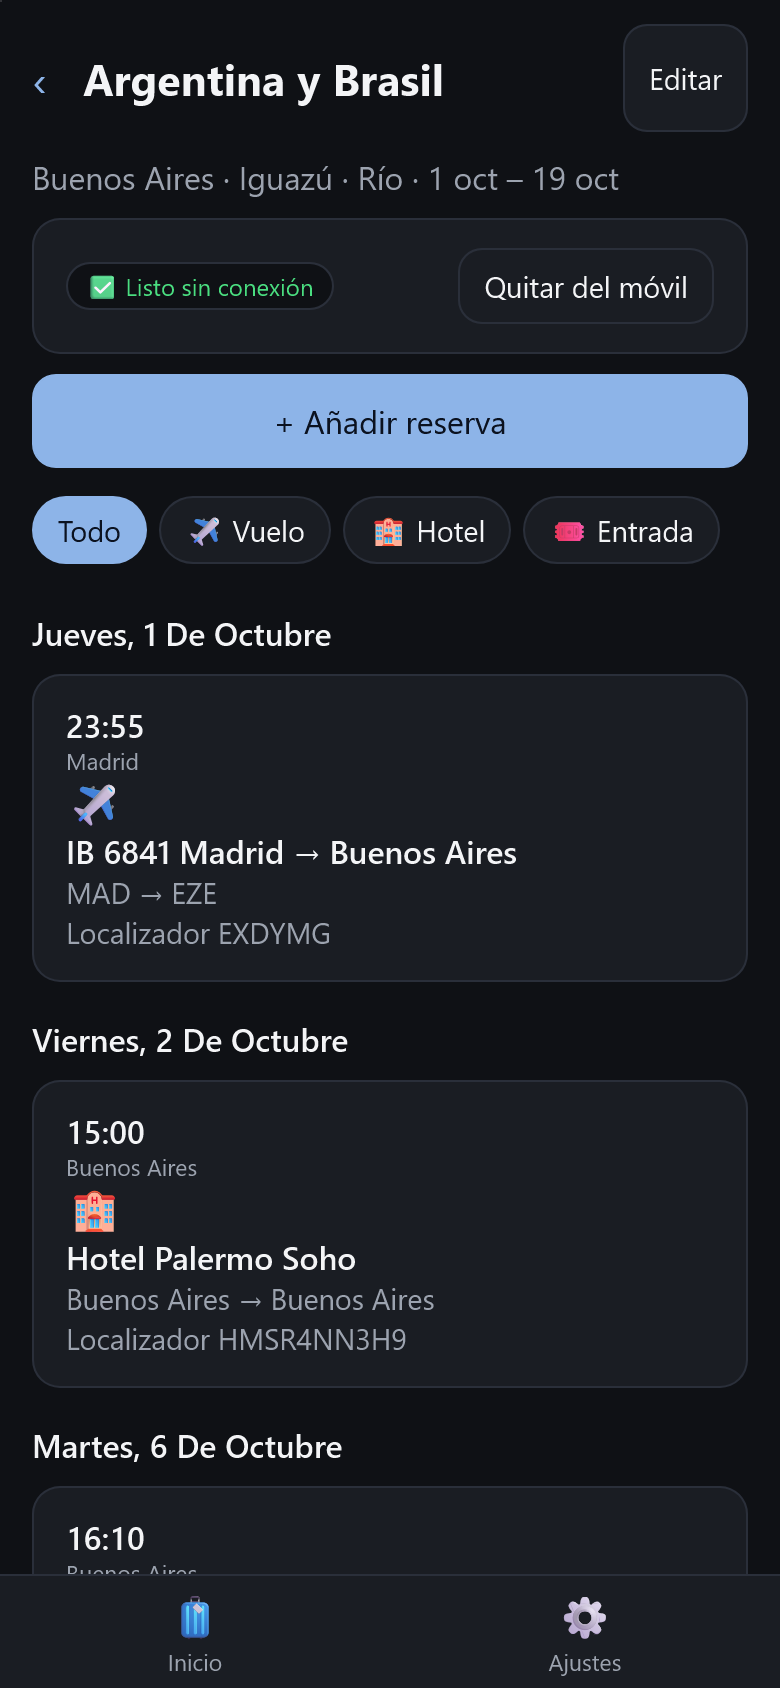
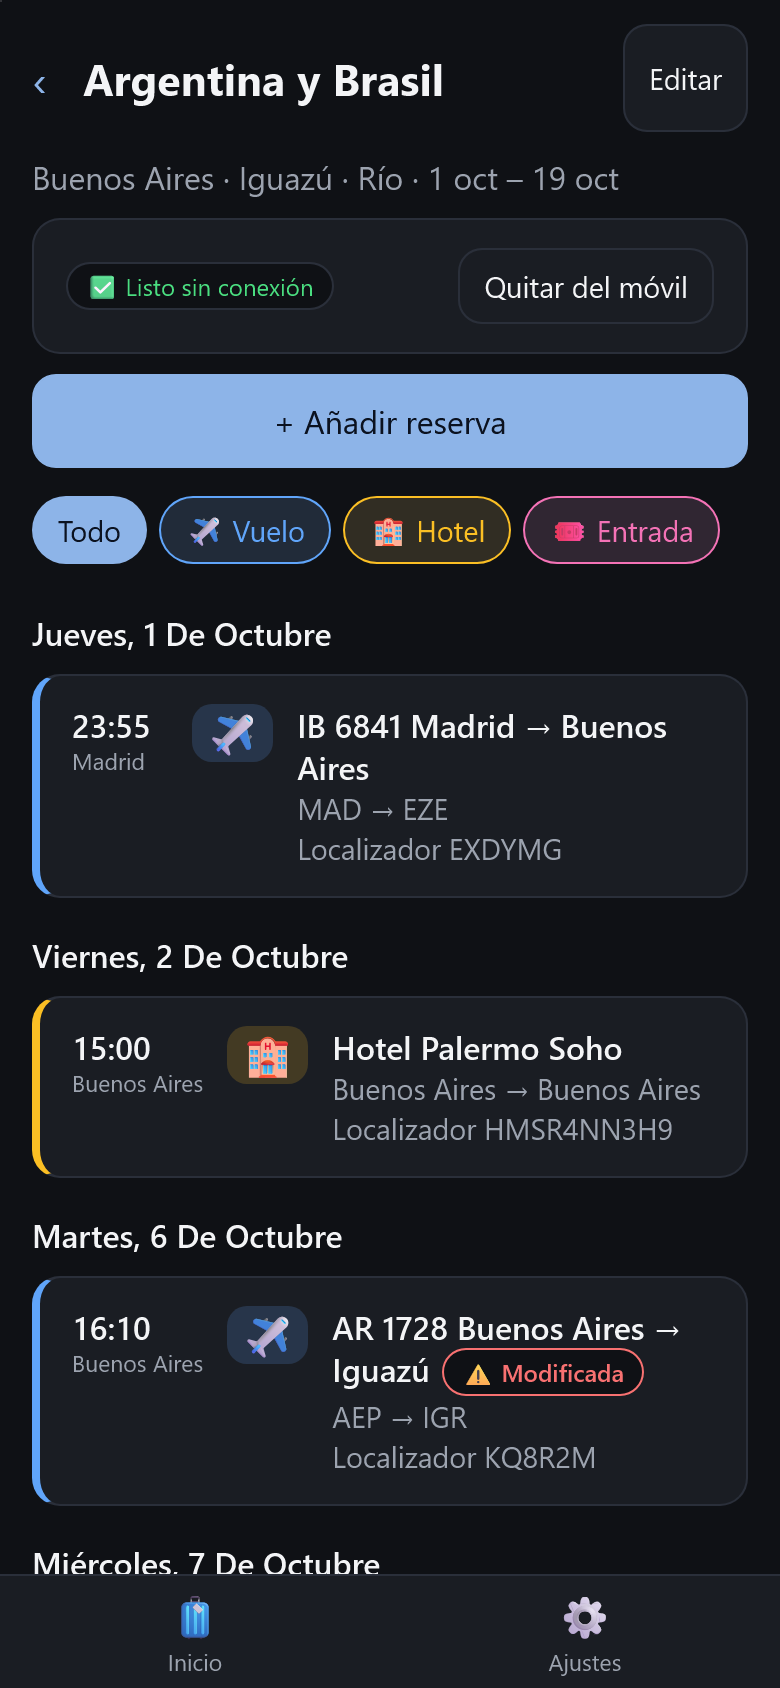
Type filter on the home trip block and one color per booking type (chips and card border); booking cards laid out as a row; tokens (Gmail and backup) only manageable by the household admin, guests see settings read-only; guide updated

diff --git a/web/src/pages/HomePage.tsx b/web/src/pages/HomePage.tsx
@@ -2,10 +2,11 @@ import { useState } from 'react';
 import { Link } from 'react-router-dom';
 import { BookingCard } from '../components/BookingCard';
 import { OfflineBadge, useTripOffline } from '../components/OfflineBadge';
+import { TypeChips } from '../components/TypeChips';
 import { formatDay, formatLongDay, formatRange, timeOf, zoneLabel } from '../data/localTime';
 import { listAttachments, listBookings, listInbox, listTrips } from '../data/repo';
 import { useSyncStatus } from '../data/syncClient';
-import type { Trip } from '../data/types';
+import type { BookingType, Trip } from '../data/types';
 import { useLiveQuery } from '../data/useLive';
 import { groupByDay, sortTrips, todayLocal, TYPE_INFO, upcomingBookings } from '../domain/agenda';
 
@@ -75,18 +76,21 @@ const PREVIEW = 3;
 function CurrentTrip({ trip, inProgress }: { trip: Trip; inProgress: boolean }) {
   const offline = useTripOffline(trip);
   const [expanded, setExpanded] = useState(false);
+  const [filter, setFilter] = useState<BookingType | null>(null);
   const data = useLiveQuery(async () => {
-    const bookings = await listBookings(trip.id);
+    const all = await listBookings(trip.id);
+    const bookings = filter ? all.filter((b) => b.type === filter) : all;
     const upcoming = upcomingBookings(bookings, Date.now(), PREVIEW);
     const next = upcoming[0];
     const qr = next ? (await listAttachments(next.id)).some((a) => a.qrText) : false;
-    return { bookings, upcoming, qr };
-  }, [trip.id]);
+    return { all, bookings, upcoming, qr };
+  }, [trip.id, filter]);
 
   if (!data) {
     return null;
   }
-  const { bookings, upcoming, qr } = data;
+  const { all, bookings, upcoming, qr } = data;
+  const typesPresent = new Set(all.map((b) => b.type));
   const [next, ...after] = upcoming;
   const info = next ? TYPE_INFO[next.type] : null;
   const hidden = bookings.length - upcoming.length;
@@ -106,6 +110,8 @@ function CurrentTrip({ trip, inProgress }: { trip: Trip; inProgress: boolean }) 
           <span className="muted">›</span>
         </div>
       </Link>
+
+      <TypeChips types={typesPresent} value={filter} onChange={setFilter} />
 
       {next && info && (
         <section className="card highlight">
@@ -131,12 +137,13 @@ function CurrentTrip({ trip, inProgress }: { trip: Trip; inProgress: boolean }) 
         </section>
       )}
 
-      {bookings.length === 0 && (
+      {all.length === 0 && (
         <p className="muted small">
           Este viaje no tiene reservas todavía.{' '}
           <Link to={`/trips/${trip.id}/bookings/new`}>Añadir la primera</Link>
         </p>
       )}
+      {all.length > 0 && bookings.length === 0 && <p className="muted small">No hay reservas de ese tipo en este viaje.</p>}
 
       {!expanded && after.length > 0 && (
         <>
@@ -159,7 +166,7 @@ function CurrentTrip({ trip, inProgress }: { trip: Trip; inProgress: boolean }) 
 
       {bookings.length > 0 && (hidden > 0 || expanded) && (
         <button className="btn block" type="button" onClick={() => setExpanded(!expanded)}>
-          {expanded ? 'Mostrar menos' : `Ver las ${bookings.length} reservas del viaje por días`}
+          {expanded ? 'Mostrar menos' : `Ver las ${bookings.length} reservas${filter ? " de este tipo" : ""} por días`}
         </button>
       )}
     </section>

diff --git a/web/src/app/theme.css b/web/src/app/theme.css
@@ -309,3 +309,47 @@ button.secondary { background: transparent; border: 1px solid var(--border); }
 }
 .btn.add svg { width: 20px; height: 20px; flex: none; }
 .topbar h1.two-words { font-size: 1.3rem; }
+
+/* Un color por tipo de reserva: en las píldoras del filtro y en el borde de cada tarjeta. */
+:root {
+  --type-flight: #2563eb;
+  --type-train: #7c3aed;
+  --type-hotel: #d97706;
+  --type-car: #059669;
+  --type-ticket: #db2777;
+  --type-other: #6b7280;
+}
+@media (prefers-color-scheme: dark) {
+  :root:not([data-theme="light"]) {
+    --type-flight: #60a5fa;
+    --type-train: #a78bfa;
+    --type-hotel: #fbbf24;
+    --type-car: #34d399;
+    --type-ticket: #f472b6;
+    --type-other: #9ca3af;
+  }
+}
+.chips button.type-flight { --type: var(--type-flight); }
+.chips button.type-train { --type: var(--type-train); }
+.chips button.type-hotel { --type: var(--type-hotel); }
+.chips button.type-car { --type: var(--type-car); }
+.chips button.type-ticket { --type: var(--type-ticket); }
+.chips button.type-other { --type: var(--type-other); }
+.chips button[class*="type-"] { border-color: var(--type); color: var(--type); background: color-mix(in srgb, var(--type) 10%, var(--surface)); }
+.chips button[class*="type-"].on { background: var(--type); color: #fff; border-color: var(--type); text-shadow: 0 1px 1px rgba(0, 0, 0, 0.25); }
+.booking.type-flight { --type: var(--type-flight); }
+.booking.type-train { --type: var(--type-train); }
+.booking.type-hotel { --type: var(--type-hotel); }
+.booking.type-car { --type: var(--type-car); }
+.booking.type-ticket { --type: var(--type-ticket); }
+.booking.type-other { --type: var(--type-other); }
+.booking[class*="type-"] { border-left: 4px solid var(--type); }
+.booking[class*="type-"] .icon {
+  background: color-mix(in srgb, var(--type) 18%, var(--surface));
+  border-radius: 10px;
+  padding: 4px 6px;
+  line-height: 1;
+}
+.booking[class*="type-"] .icon { align-self: flex-start; width: fit-content; }
+/* La tarjeta de reserva es un enlace: sin esto, «a.card» (bloque) gana a «.booking» (fila). */
+a.card.booking { display: flex; }

diff --git a/web/src/pages/TripPage.tsx b/web/src/pages/TripPage.tsx
@@ -3,13 +3,14 @@ import { Link, useNavigate, useParams } from 'react-router-dom';
 import { BackLink } from '../app/Layout';
 import { BookingCard } from '../components/BookingCard';
 import { OfflineBadge, useTripOffline } from '../components/OfflineBadge';
+import { TypeChips } from '../components/TypeChips';
 import { formatLongDay, formatRange } from '../data/localTime';
 import { downloadMissing, dropBlobs, setManualOffline } from '../data/offline';
 import { deleteTrip, getTrip, listBookings } from '../data/repo';
 import { downloadAttachment } from '../data/syncClient';
 import type { BookingType } from '../data/types';
 import { useLiveQuery } from '../data/useLive';
-import { groupByDay, TYPE_INFO } from '../domain/agenda';
+import { groupByDay } from '../domain/agenda';
 
 export function TripPage() {
   const { tripId = '' } = useParams();
@@ -103,18 +104,9 @@ export function TripPage() {
         + Añadir reserva
       </Link>
 
-      {typesPresent.size > 1 && (
-        <div className="chips" style={{ marginTop: 12 }}>
-          <button className={filter === null ? 'on' : ''} onClick={() => setFilter(null)}>
-            Todo
-          </button>
-          {[...typesPresent].map((type) => (
-            <button key={type} className={filter === type ? 'on' : ''} onClick={() => setFilter(filter === type ? null : type)}>
-              {TYPE_INFO[type].icon} {TYPE_INFO[type].label}
-            </button>
-          ))}
-        </div>
-      )}
+      <div style={{ marginTop: 12 }}>
+        <TypeChips types={typesPresent} value={filter} onChange={setFilter} />
+      </div>
 
       {days.length === 0 && <p className="empty">Sin reservas todavía.</p>}
       {days.map((day) => (

diff --git a/web/src/components/BackupSettings.tsx b/web/src/components/BackupSettings.tsx
@@ -22,7 +22,7 @@ function when(ms: number | null): string {
 }
 
 /** Sección «Copias de seguridad» de Ajustes: copias diarias del servidor y token para la copia en Google Drive. */
-export function BackupSettings() {
+export function BackupSettings({ admin = false }: { admin?: boolean }) {
   const [local, setLocal] = useState<LocalBackup[] | null>(null);
   const [tokens, setTokens] = useState<TokenRow[] | null>(null);
   const [fresh, setFresh] = useState<string | null>(null);
@@ -106,14 +106,20 @@ export function BackupSettings() {
           <span>
             {token.label} · creado {when(token.createdMs)} · última copia {when(token.lastUsedMs)}
           </span>
-          <button className="btn small danger" type="button" onClick={() => void revoke(token.id)}>
-            Revocar
-          </button>
+          {admin && (
+            <button className="btn small danger" type="button" onClick={() => void revoke(token.id)}>
+              Revocar
+            </button>
+          )}
         </div>
       ))}
-      <button className="btn block" type="button" onClick={() => void create()}>
-        Generar token de copia para Drive
-      </button>
+      {admin ? (
+        <button className="btn block" type="button" onClick={() => void create()}>
+          Generar token de copia para Drive
+        </button>
+      ) : (
+        <p className="muted small">Solo quien administra el hogar puede generar o revocar el token de copia.</p>
+      )}
       {message && <p className="error small">{message}</p>}
     </section>
   );

diff --git a/web/src/components/ImportTokens.tsx b/web/src/components/ImportTokens.tsx
@@ -15,7 +15,7 @@ function when(ms: number | null): string {
 }
 
 /** Tokens con los que el script de Gmail puede crear borradores. El valor solo se enseña al crearlo. */
-export function ImportTokens() {
+export function ImportTokens({ admin = false }: { admin?: boolean }) {
   const [tokens, setTokens] = useState<TokenRow[] | null>(null);
   const [fresh, setFresh] = useState<{ label: string; token: string } | null>(null);
   const [message, setMessage] = useState('');
@@ -94,14 +94,20 @@ export function ImportTokens() {
           <span>
             {token.label} · creado {when(token.createdMs)} · último uso {when(token.lastUsedMs)}
           </span>
-          <button className="btn small danger" type="button" onClick={() => void revoke(token.id)}>
-            Revocar
-          </button>
+          {admin && (
+            <button className="btn small danger" type="button" onClick={() => void revoke(token.id)}>
+              Revocar
+            </button>
+          )}
         </div>
       ))}
-      <button className="btn block" type="button" onClick={() => void create()}>
-        Generar token nuevo
-      </button>
+      {admin ? (
+        <button className="btn block" type="button" onClick={() => void create()}>
+          Generar token nuevo
+        </button>
+      ) : (
+        <p className="muted small">Solo quien administra el hogar puede generar o revocar tokens.</p>
+      )}
       {message && <p className="error small">{message}</p>}
     </section>
   );

diff --git a/web/src/pages/SettingsPage.tsx b/web/src/pages/SettingsPage.tsx
@@ -11,6 +11,7 @@ import { PushSettings } from '../components/PushSettings';
 import { dropBlobs } from '../data/offline';
 import { listTrips } from '../data/repo';
 import { syncNow, useSyncStatus } from '../data/syncClient';
+import { loadHousehold } from '../household/household';
 import { useLiveQuery } from '../data/useLive';
 import { sortTrips, todayLocal } from '../domain/agenda';
 import { describeServer, formatBuild, type ServerVersion } from '../platform/version';
@@ -38,6 +39,11 @@ export function SettingsPage() {
   const [server, setServer] = useState('consultando…');
   const [message, setMessage] = useState('');
   const trips = useLiveQuery(listTrips, []);
+  // Los tokens y la gestión de miembros solo los toca quien administra el hogar; hasta saberlo, se esconden.
+  const [admin, setAdmin] = useState(false);
+  useEffect(() => {
+    loadHousehold().then((home) => setAdmin(home.iAmAdmin), () => setAdmin(false));
+  }, []);
   const past = trips ? sortTrips(trips, todayLocal()).past : [];
 
   useEffect(() => {
@@ -99,11 +105,11 @@ export function SettingsPage() {
 
       <PushSettings />
 
-      <ImportTokens />
+      <ImportTokens admin={admin} />
 
       <AiSettings />
 
-      <BackupSettings />
+      <BackupSettings admin={admin} />
 
       <section className="card">
         <h3>Espacio en el móvil</h3>

diff --git a/web/src/components/TypeChips.tsx b/web/src/components/TypeChips.tsx
@@ -1,0 +1,22 @@
+import type { BookingType } from '../data/types';
+import { TYPE_INFO } from '../domain/agenda';
+
+/** Filtro por tipo de reserva: una píldora por tipo presente, cada una con el color de su tipo. */
+export function TypeChips({ types, value, onChange }: { types: Iterable<BookingType>; value: BookingType | null; onChange: (type: BookingType | null) => void }) {
+  const present = [...types];
+  if (present.length < 2) {
+    return null;
+  }
+  return (
+    <div className="chips" role="group" aria-label="Filtrar por tipo">
+      <button type="button" className={value === null ? 'on' : ''} onClick={() => onChange(null)}>
+        Todo
+      </button>
+      {present.map((type) => (
+        <button key={type} type="button" className={`type-${type}${value === type ? ' on' : ''}`} onClick={() => onChange(value === type ? null : type)}>
+          {TYPE_INFO[type].icon} {TYPE_INFO[type].label}
+        </button>
+      ))}
+    </div>
+  );
+}

diff --git a/web/src/pages/GuidePage.tsx b/web/src/pages/GuidePage.tsx
@@ -181,7 +181,8 @@ export function GuidePage() {
           <li>Cada persona tiene su cuenta y su contraseña. Todas las del hogar ven y editan los mismos viajes.</li>
           <li>
             En Ajustes → Hogar cualquiera puede <strong>Invitar a alguien</strong>: se genera un enlace de un solo uso que caduca a los
-            siete días. Quien administra el hogar puede quitar miembros.
+            siete días. Solo quien administra el hogar puede quitar miembros y generar o revocar los tokens de Gmail y de copias de
+            seguridad; los demás ven esos apartados sin botones.
           </li>
           <li>
             <strong>Cerrar sesión</strong> borra la copia de este móvil (viajes, billetes y cambios sin enviar). Normalmente no hace falta

diff --git a/web/src/components/BookingCard.tsx b/web/src/components/BookingCard.tsx
@@ -7,7 +7,7 @@ export function BookingCard({ booking, showDay }: { booking: Booking; showDay?: 
   const info = TYPE_INFO[booking.type];
   const route = [booking.startPlace, booking.endPlace].filter(Boolean).join(' → ');
   return (
-    <Link className="card booking" to={`/bookings/${booking.id}`}>
+    <Link className={`card booking type-${booking.type}`} to={`/bookings/${booking.id}`}>
       <div className="time">
         {timeOf(booking.startLocal)}
         <span className="tz">{zoneLabel(booking.startTz)}</span>

diff --git a/server/Viajes.Api/Inbox/InboxEndpoints.cs b/server/Viajes.Api/Inbox/InboxEndpoints.cs
@@ -58,15 +58,10 @@ public static class InboxEndpoints
             return Results.Problem("Tipo de token desconocido.", statusCode: StatusCodes.Status400BadRequest);
         }
 
-        if (scope == ImportToken.BackupScope)
+        // Un token da acceso desde fuera (correo o copia completa): solo quien administra el hogar los crea.
+        if (!await access.IsAdmin(userId))
         {
-            // La copia lleva los datos de todo el hogar: solo quien lo administra puede crear el token.
-            var householdId = await access.EnsureHousehold(userId);
-            var admin = await db.HouseholdMembers.AnyAsync(m => m.HouseholdId == householdId && m.UserId == userId && m.Role == HouseholdMember.Admin && m.DeletedAtMs == null);
-            if (!admin)
-            {
-                return Results.Problem("Solo quien administra el hogar puede crear tokens de copia de seguridad.", statusCode: StatusCodes.Status403Forbidden);
-            }
+            return Results.Problem("Solo quien administra el hogar puede crear tokens.", statusCode: StatusCodes.Status403Forbidden);
         }
 
         var secret = RandomNumberGenerator.GetBytes(32);
@@ -87,9 +82,14 @@ public static class InboxEndpoints
         return Results.Ok(new { id = entity.Id, label = entity.Label, scope = entity.Scope, token });
     }
 
-    private static async Task<IResult> RevokeToken(Guid id, ClaimsPrincipal principal, UserManager<IdentityUser> users, AppDbContext db)
+    private static async Task<IResult> RevokeToken(Guid id, ClaimsPrincipal principal, UserManager<IdentityUser> users, AppDbContext db, AccessService access)
     {
         var userId = users.GetUserId(principal)!;
+        if (!await access.IsAdmin(userId))
+        {
+            return Results.Problem("Solo quien administra el hogar puede revocar tokens.", statusCode: StatusCodes.Status403Forbidden);
+        }
+
         var token = await db.ImportTokens.FirstOrDefaultAsync(t => t.Id == id && t.UserId == userId);
         if (token is null)
         {

diff --git a/server/Viajes.Tests/HouseholdTests.cs b/server/Viajes.Tests/HouseholdTests.cs
@@ -126,3 +126,25 @@ public sealed class HouseholdTests(TestApp app) : IClassFixture<TestApp>
         Assert.Equal(HttpStatusCode.Conflict, conflict.StatusCode);
     }
 }
+
+public sealed class AdminOnlySettingsTests(TestApp app) : IClassFixture<TestApp>
+{
+    [Fact]
+    public async Task Only_the_admin_creates_and_revokes_tokens()
+    {
+        var admin = await TripsApi.SignUp(app, "solo-admin@example.com");
+        var invite = await admin.Client.PostAsJsonAsync("/api/household/invitations", new { });
+        var token = (await invite.Content.ReadFromJsonAsync<JsonElement>()).GetProperty("token").GetString();
+        var member = app.CreateHttpsClient();
+        (await member.PostAsJsonAsync("/api/auth/register", new { email = "solo-miembro@example.com", password = Auth.Password, invitation = token })).EnsureSuccessStatusCode();
+
+        var created = await admin.Client.PostAsJsonAsync("/api/import-tokens/", new { label = "Gmail" });
+        Assert.Equal(HttpStatusCode.OK, created.StatusCode);
+        var id = (await created.Content.ReadFromJsonAsync<JsonElement>()).GetProperty("id").GetGuid();
+
+        Assert.Equal(HttpStatusCode.Forbidden, (await member.PostAsJsonAsync("/api/import-tokens/", new { label = "Gmail" })).StatusCode);
+        Assert.Equal(HttpStatusCode.Forbidden, (await member.PostAsJsonAsync("/api/import-tokens/", new { label = "Copia", scope = "backup" })).StatusCode);
+        Assert.Equal(HttpStatusCode.Forbidden, (await member.DeleteAsync($"/api/import-tokens/{id}")).StatusCode);
+        Assert.Equal(HttpStatusCode.NoContent, (await admin.Client.DeleteAsync($"/api/import-tokens/{id}")).StatusCode);
+    }
+}

diff --git a/server/Viajes.Api/Access/AccessService.cs b/server/Viajes.Api/Access/AccessService.cs
@@ -18,6 +18,14 @@ public sealed class AccessService(AppDbContext db)
             .Select(m => (Guid?)m.HouseholdId)
             .FirstOrDefaultAsync();
 
+    /// <summary>Si la persona administra su hogar. Los tokens y la gestión de miembros son solo para quien administra.</summary>
+    public async Task<bool> IsAdmin(string userId)
+    {
+        var householdId = await EnsureHousehold(userId);
+        return await db.HouseholdMembers.AnyAsync(m =>
+            m.HouseholdId == householdId && m.UserId == userId && m.Role == HouseholdMember.Admin && m.DeletedAtMs == null);
+    }
+
     /// <summary>Cada cuenta tiene un hogar; a las anteriores a este plan se les crea al iniciar sesión.</summary>
     public async Task<Guid> EnsureHousehold(string userId)
     {
